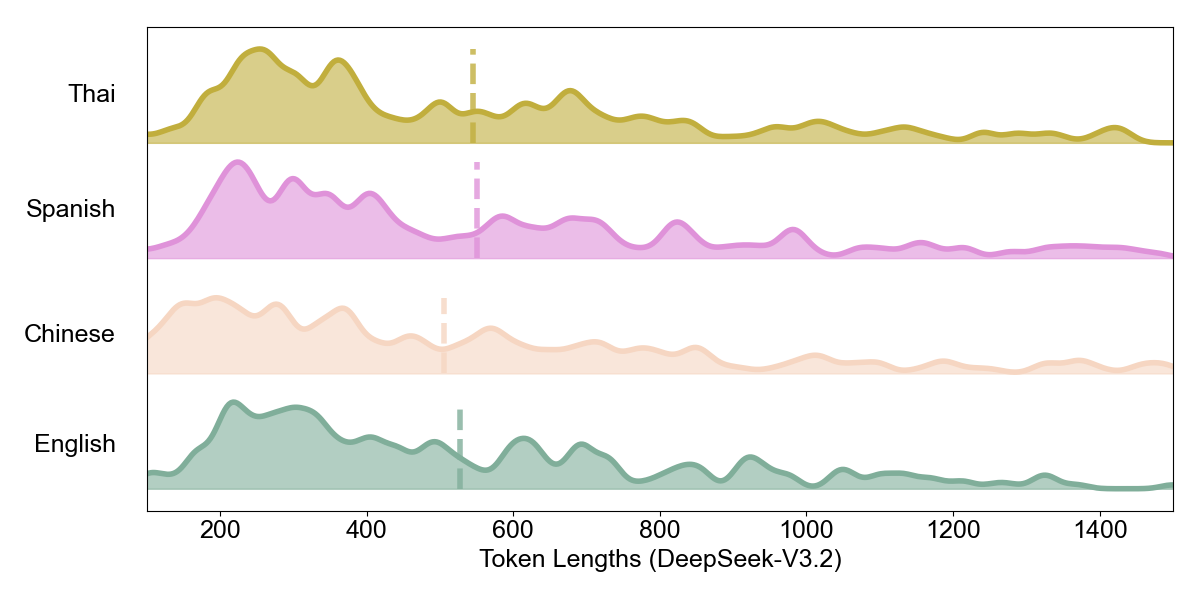
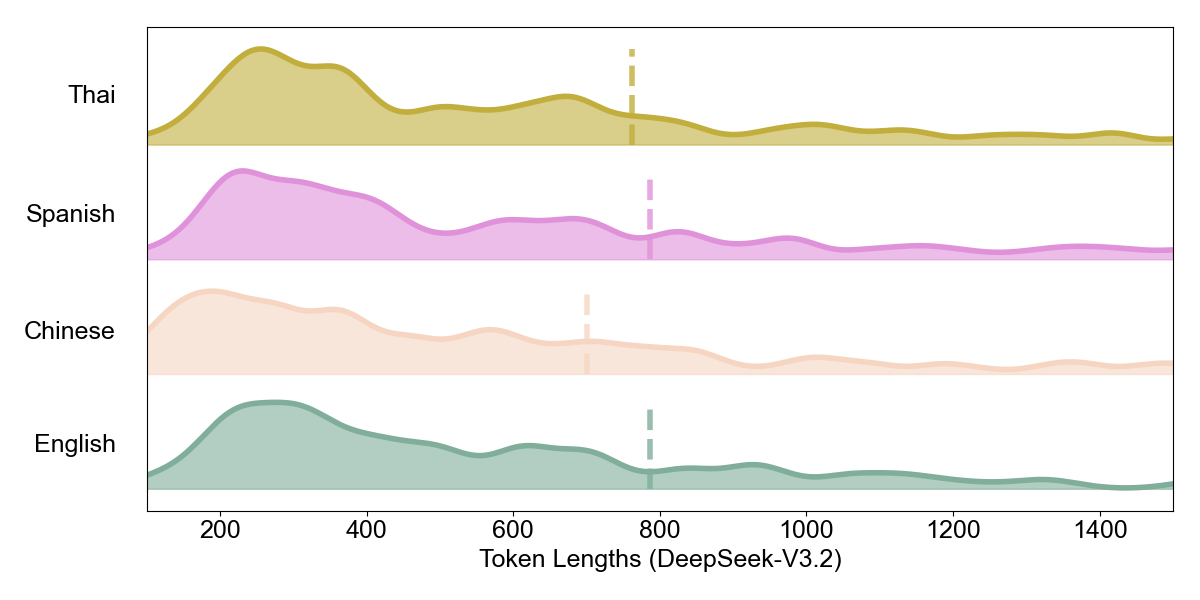
Update figures

diff --git a/scripts/40_plot_results.py b/scripts/40_plot_results.py
@@ -67,56 +67,56 @@ if __name__ == "__main__":
     #     "results/gsm8k/en_vs_zh.png",
     #     yname="GSM8K Accuracy",
     # )
-    # chatgpt_en_path = "results/mmath/summary_chatgpt-5.1_en_direct_8192.json"
-    # chatgpt_zh_path = "results/mmath/summary_chatgpt-5.1_zh_direct_8192.json"
-    # chatgpt_es_path = "results/mmath/summary_chatgpt-5.1_es_direct_8192.json"
-    # chatgpt_th_path = "results/mmath/summary_chatgpt-5.1_th_direct_8192.json"
-    # deepseek_en_path = "results/mmath/summary_deepseek-v3.2_en_direct_8192.json"
-    # deepseek_zh_path = "results/mmath/summary_deepseek-v3.2_zh_direct_8192.json"
-    # deepseek_es_path = "results/mmath/summary_deepseek-v3.2_es_direct_8192.json"
-    # deepseek_th_path = "results/mmath/summary_deepseek-v3.2_th_direct_8192.json"
-    # gemini_en_path = "results/mmath/summary_gemini-2.5_en_direct_8192.json"
-    # gemini_zh_path = "results/mmath/summary_gemini-2.5_zh_direct_8192.json"
-    # gemini_es_path = "results/mmath/summary_gemini-2.5_es_direct_8192.json"
-    # gemini_th_path = "results/mmath/summary_gemini-2.5_th_direct_8192.json"
+    chatgpt_en_path = "results/mmath/summary_chatgpt-5.1_en_direct_8192.json"
+    chatgpt_zh_path = "results/mmath/summary_chatgpt-5.1_zh_direct_8192.json"
+    chatgpt_es_path = "results/mmath/summary_chatgpt-5.1_es_direct_8192.json"
+    chatgpt_th_path = "results/mmath/summary_chatgpt-5.1_th_direct_8192.json"
+    deepseek_en_path = "results/mmath/summary_deepseek-v3.2_en_direct_8192.json"
+    deepseek_zh_path = "results/mmath/summary_deepseek-v3.2_zh_direct_8192.json"
+    deepseek_es_path = "results/mmath/summary_deepseek-v3.2_es_direct_8192.json"
+    deepseek_th_path = "results/mmath/summary_deepseek-v3.2_th_direct_8192.json"
+    gemini_en_path = "results/mmath/summary_gemini-2.5_en_direct_8192.json"
+    gemini_zh_path = "results/mmath/summary_gemini-2.5_zh_direct_8192.json"
+    gemini_es_path = "results/mmath/summary_gemini-2.5_es_direct_8192.json"
+    gemini_th_path = "results/mmath/summary_gemini-2.5_th_direct_8192.json"
 
-    # chatgpt_en_lengths = json.load(open(chatgpt_en_path))["output_lengths"]
-    # chatgpt_zh_lengths = json.load(open(chatgpt_zh_path))["output_lengths"]
-    # chatgpt_es_lengths = json.load(open(chatgpt_es_path))["output_lengths"]
-    # chatgpt_th_lengths = json.load(open(chatgpt_th_path))["output_lengths"]
-    # deepseek_en_lengths = json.load(open(deepseek_en_path))["output_lengths"]
-    # deepseek_zh_lengths = json.load(open(deepseek_zh_path))["output_lengths"]
-    # deepseek_es_lengths = json.load(open(deepseek_es_path))["output_lengths"]
-    # deepseek_th_lengths = json.load(open(deepseek_th_path))["output_lengths"]
-    # gemini_en_lengths = json.load(open(gemini_en_path))["output_lengths"]
-    # gemini_zh_lengths = json.load(open(gemini_zh_path))["output_lengths"]
-    # gemini_es_lengths = json.load(open(gemini_es_path))["output_lengths"]
-    # gemini_th_lengths = json.load(open(gemini_th_path))["output_lengths"]
+    chatgpt_en_lengths = json.load(open(chatgpt_en_path))["output_lengths"]
+    chatgpt_zh_lengths = json.load(open(chatgpt_zh_path))["output_lengths"]
+    chatgpt_es_lengths = json.load(open(chatgpt_es_path))["output_lengths"]
+    chatgpt_th_lengths = json.load(open(chatgpt_th_path))["output_lengths"]
+    deepseek_en_lengths = json.load(open(deepseek_en_path))["output_lengths"]
+    deepseek_zh_lengths = json.load(open(deepseek_zh_path))["output_lengths"]
+    deepseek_es_lengths = json.load(open(deepseek_es_path))["output_lengths"]
+    deepseek_th_lengths = json.load(open(deepseek_th_path))["output_lengths"]
+    gemini_en_lengths = json.load(open(gemini_en_path))["output_lengths"]
+    gemini_zh_lengths = json.load(open(gemini_zh_path))["output_lengths"]
+    gemini_es_lengths = json.load(open(gemini_es_path))["output_lengths"]
+    gemini_th_lengths = json.load(open(gemini_th_path))["output_lengths"]
 
-    # plot_length_distribution_ridge(
-    #     [gemini_en_lengths, gemini_zh_lengths, gemini_es_lengths, gemini_th_lengths],
-    #     "results/mmath/length_distribution_gemini(2).pdf",
-    #     xname="Output Lengths (Gemini-2.5-Flash)",
-    #     legend_labels=["English", "Chinese", "Spanish", "Thai"],
-    # )
-    # plot_length_distribution_ridge(
-    #     [deepseek_en_lengths, deepseek_zh_lengths, deepseek_es_lengths, deepseek_th_lengths],
-    #     "results/mmath/length_distribution_deepseek(2).pdf",
-    #     xname="Output Lengths (DeepSeek-V3.2)",
-    #     legend_labels=["English", "Chinese", "Spanish", "Thai"],
-    # )
-    # plot_length_distribution_ridge(
-    #     [chatgpt_en_lengths, chatgpt_zh_lengths, chatgpt_es_lengths, chatgpt_th_lengths],
-    #     "results/mmath/length_distribution_chatgpt(2).pdf",
-    #     xname="Output Lengths (ChatGPT-5.1)",
-    #     legend_labels=["English", "Chinese", "Spanish", "Thai"],
-    # )
+    plot_length_distribution_ridge(
+        [gemini_en_lengths, gemini_zh_lengths, gemini_es_lengths, gemini_th_lengths],
+        "figures/length_distribution_gemini.png",
+        xname="Output Lengths (Gemini-2.5-Flash)",
+        legend_labels=["English", "Chinese", "Spanish", "Thai"],
+    )
+    plot_length_distribution_ridge(
+        [deepseek_en_lengths, deepseek_zh_lengths, deepseek_es_lengths, deepseek_th_lengths],
+        "figures/length_distribution_deepseek.png",
+        xname="Output Lengths (DeepSeek-V3.2)",
+        legend_labels=["English", "Chinese", "Spanish", "Thai"],
+    )
+    plot_length_distribution_ridge(
+        [chatgpt_en_lengths, chatgpt_zh_lengths, chatgpt_es_lengths, chatgpt_th_lengths],
+        "figures/length_distribution_chatgpt.png",
+        xname="Output Lengths (ChatGPT-5.1)",
+        legend_labels=["English", "Chinese", "Spanish", "Thai"],
+    )
 
     # qwen_csv = "results/gsm8k/token_comparison_answer_correct.csv"
     # llama_csv = "results/gsm8k/llama/token_comparison_answer_correct.csv"
     # chatgpt_csv = "results/mmath/chatgpt/token_records_chatgpt-5.1_mmath.csv"
     # gemini_csv = "results/mmath/gemini-2.5/token_records_gemini-2.5_mmath.csv"
-    deepseek_csv = "results/mmath/deepseek/token_records_deepseek-v3.2_mmath.csv"
+    # deepseek_csv = "results/mmath/deepseek/token_records_deepseek-v3.2_mmath.csv"
     
     # qwen_en_lengths = pd.read_csv(qwen_csv)["qwen3-8b_en_tokens"].tolist()
     # qwen_zh_lengths = pd.read_csv(qwen_csv)["qwen3-8b_zh_tokens"].tolist()
@@ -130,10 +130,10 @@ if __name__ == "__main__":
     # gemini_zh_lengths = pd.read_csv(gemini_csv)["deepseek-v3_zh_tokens"].tolist()
     # gemini_es_lengths = pd.read_csv(gemini_csv)["deepseek-v3_es_tokens"].tolist()
     # gemini_th_lengths = pd.read_csv(gemini_csv)["deepseek-v3_th_tokens"].tolist()
-    deepseek_en_lengths = pd.read_csv(deepseek_csv)["deepseek-v3_en_tokens"].tolist()
-    deepseek_zh_lengths = pd.read_csv(deepseek_csv)["deepseek-v3_zh_tokens"].tolist()
-    deepseek_es_lengths = pd.read_csv(deepseek_csv)["deepseek-v3_es_tokens"].tolist()
-    deepseek_th_lengths = pd.read_csv(deepseek_csv)["deepseek-v3_th_tokens"].tolist()
+    # deepseek_en_lengths = pd.read_csv(deepseek_csv)["deepseek-v3_en_tokens"].tolist()
+    # deepseek_zh_lengths = pd.read_csv(deepseek_csv)["deepseek-v3_zh_tokens"].tolist()
+    # deepseek_es_lengths = pd.read_csv(deepseek_csv)["deepseek-v3_es_tokens"].tolist()
+    # deepseek_th_lengths = pd.read_csv(deepseek_csv)["deepseek-v3_th_tokens"].tolist()
 
     # plot_length_distribution(
     #     [qwen_en_lengths, qwen_zh_lengths],
@@ -154,7 +154,7 @@ if __name__ == "__main__":
     #     "results/mmath/token_distribution_chatgpt.png",
     #     xname="Token Lengths (ChatGPT-5.1)",
     #     legend_labels=["English", "Chinese", "Spanish", "Thai"],
-    #     max_len=750,
+    #     max_len=700,
     # )
     # plot_length_distribution_ridge(
     #     [gemini_en_lengths, gemini_zh_lengths, gemini_es_lengths, gemini_th_lengths],
@@ -163,10 +163,10 @@ if __name__ == "__main__":
     #     legend_labels=["English", "Chinese", "Spanish", "Thai"],
     #     max_len=750,
     # )
-    plot_length_distribution_ridge(
-        [deepseek_en_lengths, deepseek_zh_lengths, deepseek_es_lengths, deepseek_th_lengths],
-        "results/mmath/token_distribution_deepseek.png",
-        xname="Token Lengths (DeepSeek-V3.2)",
-        legend_labels=["English", "Chinese", "Spanish", "Thai"],
-        max_len=1500,
-    )
+    # plot_length_distribution_ridge(
+    #     [deepseek_en_lengths, deepseek_zh_lengths, deepseek_es_lengths, deepseek_th_lengths],
+    #     "results/mmath/token_distribution_deepseek.png",
+    #     xname="Token Lengths (DeepSeek-V3.2)",
+    #     legend_labels=["English", "Chinese", "Spanish", "Thai"],
+    #     max_len=1500,
+    # )

diff --git a/src/plotting.py b/src/plotting.py
@@ -253,7 +253,7 @@ def plot_length_distribution_ridge(
     # Filter and collect all data first
     cleaned = []
     for tl in token_lengths:
-        arr = np.array([L for L in tl if 10 < L < max_len])
+        arr = np.array([L for L in tl if 10 < L < 15000])
         if len(arr) > 1:
             cleaned.append(arr)
         else:
